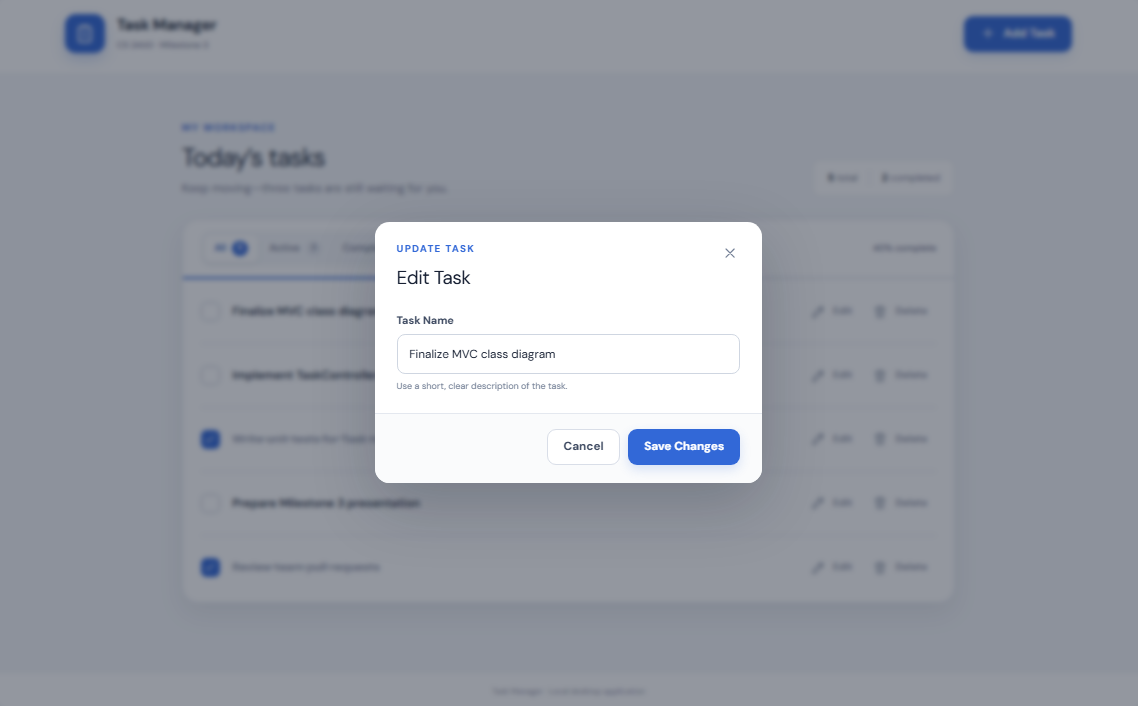
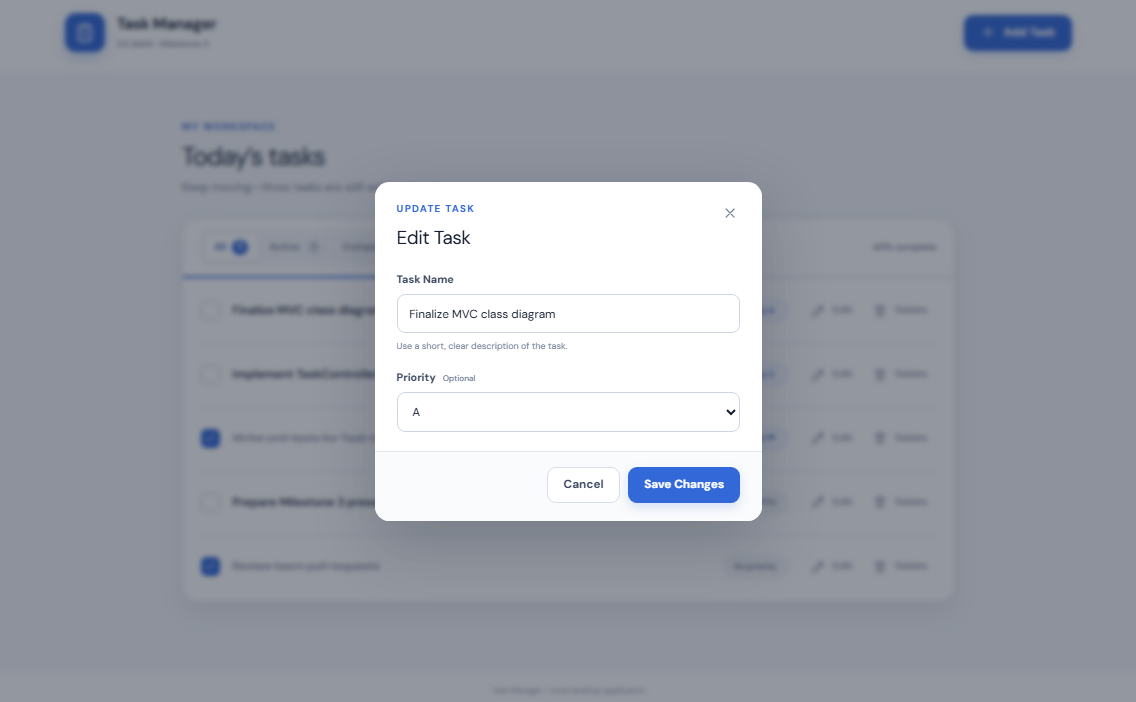
Add files via upload

diff --git a/docs/ui_design/README.md b/docs/ui_design/README.md
@@ -1,30 +1,23 @@
-# UI Design - Milestone 3
+# Task Manager GUI Design – Milestone 3
 
-## Overview
-
-I created wireframes and mockups for the Task Manager GUI using Figma. The goal was to make the application simple and easy to use while keeping the existing features.
+This folder contains the updated GUI wireframes and mockups for the Task Manager application.
 
 ## Screens
+- Main task list
+- Empty state
+- Add task
+- Edit task
+- Delete confirmation
 
-I designed five main screens:
+Each screen includes a wireframe and a high-fidelity mockup (10 images total).
 
-1. **Main Task List** - View tasks, mark tasks as completed, edit, delete, and filter tasks.
-2. **Add Task** - Add a new task with input validation.
-3. **Edit Task** - Update an existing task.
-4. **Delete Confirmation** - Confirm before deleting a task.
-5. **Empty State** - Display a message when there are no tasks.
+## Design decisions
+- All, Active, and Completed tabs help users filter tasks.
+- Task priority is optional (A–Z, with A highest and no priority lowest).
+- Tasks are shown in priority order.
+- Add and Edit screens include a priority dropdown.
+- Delete confirmation helps prevent accidental deletion.
+- The empty state guides users to create their first task.
 
-## Design Decisions
-
-I used a simple layout with blue and white colors to keep the interface clean and consistent.
-
-- Buttons and input fields are placed consistently.
-- Completed tasks are shown with strikethrough text.
-- Error messages appear when required fields are empty.
-- A confirmation message prevents accidental deletion.
-
-
-## Tools
-
-- Figma Make
-- PNG screenshots for wireframes and mockups
+## Team feedback
+Updated the designs to include priority labels and selectors and to remove the redundant total/completed summary.
